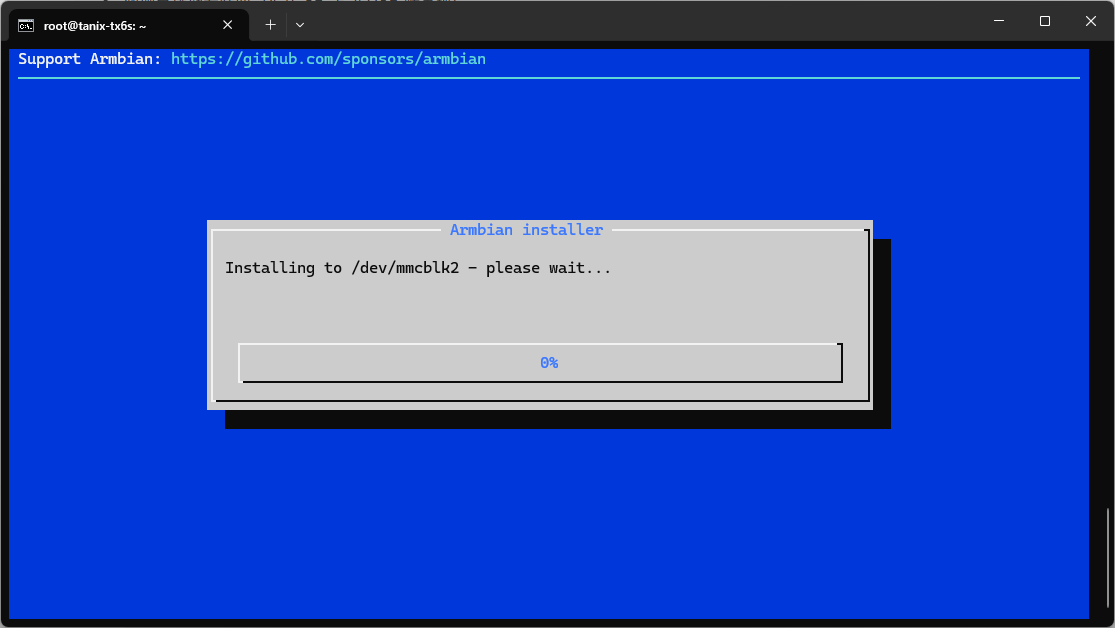
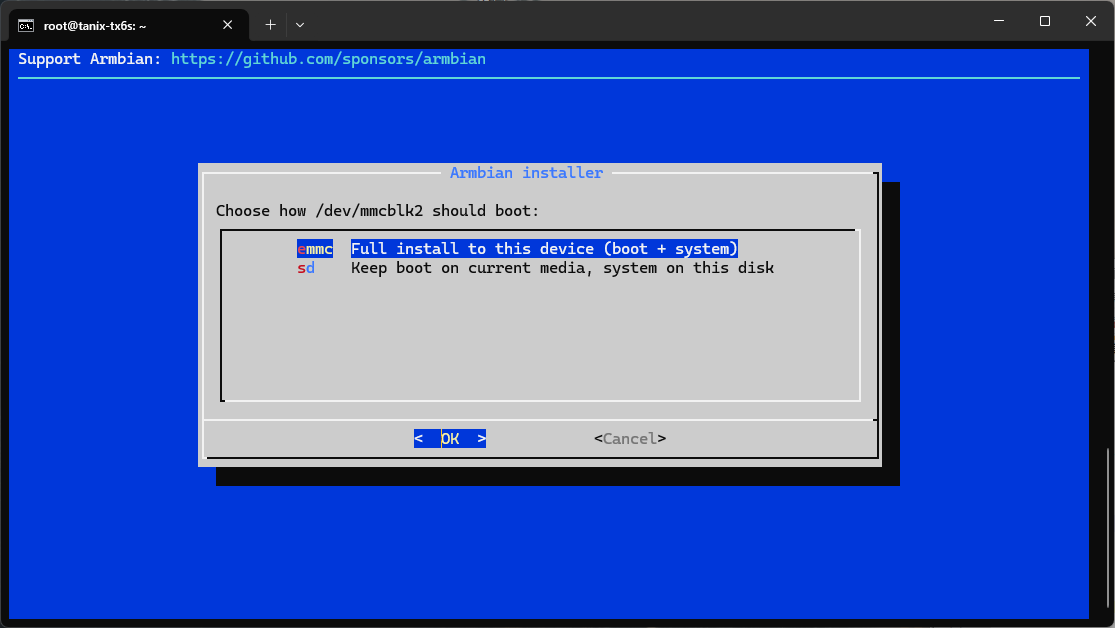
modify post

diff --git a/source/_posts/2026-11-13-ubox-flash.md b/source/_posts/2026-11-13-ubox-flash.md
@@ -236,6 +236,8 @@ armbian-install
 
 ![](/assets/tvbox_armbian3.png)
 
+![](/assets/tvbox_armbian4.png)
+
 跑完後，就可以拔掉 SD 卡，重啟設備囉！
 接下來就看想玩什麼，像是自架 NAS。
 
@@ -292,6 +294,14 @@ armbian-config --cmd OMV001
 
 沒想到 armbian 也支援一鍵安裝 NextCloud，便裝來跑看看。參考 <https://docs.armbian.com/software/nextcloud/>
 
+說明下這裡有個坑，NextCloud 其實是跑在 docker 上面，data 資料夾預設不會指到外接硬碟。
+先建立好資料夾，並掛載到外接硬碟底下。
+```sh
+mkdir -p /armbian/nextcloud/data
+mkdir -p /srv/dev-disk-by-uuid-6dc3060c-6c71-4376-bdc9-73386e93f321/nc_data
+mount --bind /srv/dev-disk-by-uuid-6dc3060c-6c71-4376-bdc9-73386e93f321/nc_data /armbian/nextcloud/data
+```
+
 ```sh
 armbian-config --cmd NCT001
 ```
@@ -329,6 +339,11 @@ grant all on nextcloud.* to 'nc'@'%';
 回到 https://<your.IP>:1443 完成相關設定
 
 ![](/assets/tvbox_nc2.png)
+
+資料庫主機記得輸入的是 docker 的區網 IP，輸入以下指令，找 docker 命名的
+```sh
+ip a
+```
 
 # 好用指令
 

diff --git a/source/_posts/2026-02-22-maker-markmap.md b/source/_posts/2026-02-22-maker-markmap.md
@@ -41,4 +41,5 @@ markmap:
 ## [[OpenWrt] ASUS RT-N12+ B1 路由器刷機](/2024/09/27/asus-router-openwrt)<br/>認識 TTL 接腳，初探 U-Boot
 
 ### [[LibreELEC] 機上盒刷機](/2024/09/30/ovo-flash)<br/>嘗試找其它板子的 TTL
+### [[Armbian] 安博機上盒刷機](/2026/11/13/ubox-flash/)<br/>認識 kernel
 {% endmarkmap %}
